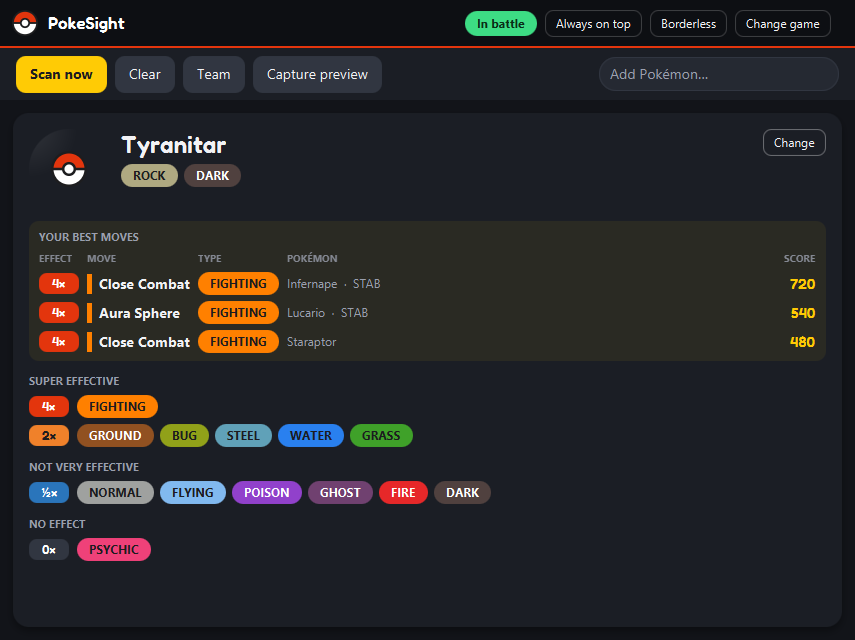
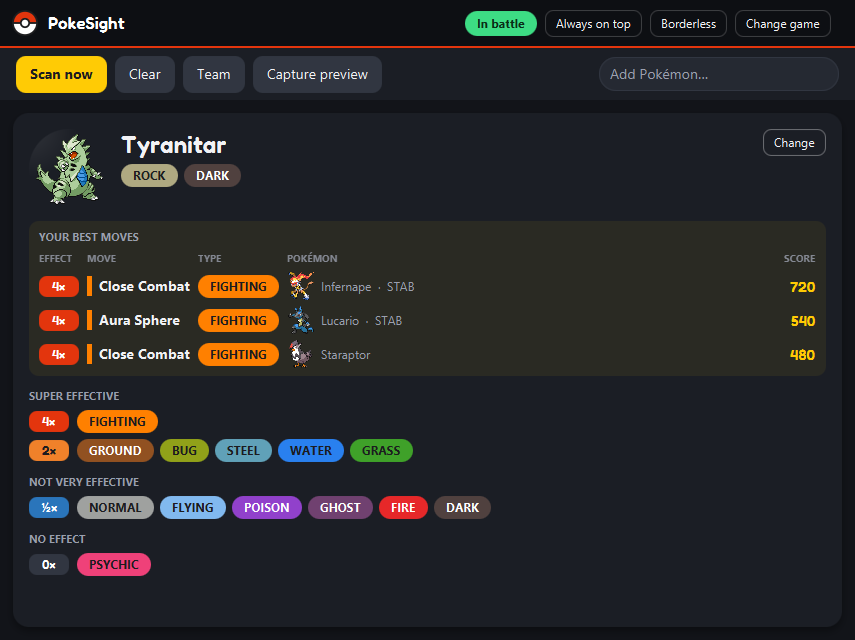
DOCS: README screenshots with sprites in one table

Changed region(s): [[0.0304, 0.4062, 0.5778, 0.9062], [0.9123, 0.4375, 0.9731, 0.5625], [0.0304, 0.2188, 0.1216, 0.3125]]

diff --git a/README.md b/README.md
@@ -9,14 +9,9 @@ PokeSight is a second-screen companion for Pokémon games. It reads the opponent
 when a battle starts and shows each opponent's weaknesses, resistances and immunities, plus which moves of your team
 hit it hardest. It only looks at the screen, so it needs no emulator plugin or memory access.
 
-![A battle against Tyranitar in Platinum: the team's best moves and all weaknesses, resistances and immunities](docs/screenshots/battle.png)
-
-| Start screen | Double battle |
-|---|---|
-| ![Start screen with game, language and the selected screen areas](docs/screenshots/start.png) | ![Double battle: Togekiss and Weavile side by side](docs/screenshots/double-battle.png) |
-
-<sub>The screenshots show a Poké Ball instead of the Pokémon sprites: the sprites are © Nintendo and not part of this
-repository; the app downloads them on first start.</sub>
+| Start screen | Single battle | Double battle |
+|---|---|---|
+| ![Start screen with game, language and the selected screen areas](docs/screenshots/start.png) | ![A battle against Tyranitar in Platinum: the team's best moves and all weaknesses, resistances and immunities](docs/screenshots/battle.png) | ![Double battle: Togekiss and Weavile side by side](docs/screenshots/double-battle.png) |
 
 - Single, double and triple battles and hordes, auto-detection plus **Scan now** if a battle was missed
 - Correct a misread Pokémon or add one by hand with a name search
@@ -255,12 +250,14 @@ PokeSight's own code is released under the [MIT License](LICENSE): free to use, 
 third-party software under its own licenses: see [THIRD-PARTY-NOTICES.md](THIRD-PARTY-NOTICES.md) and the
 [licenses](licenses) folder, both also included in the app folder.
 
-Neither the repository nor the release contains Pokémon images: the app downloads the sprites on first start, the
-build downloads the test screenshots. They are not covered by the MIT License:
+The release contains no Pokémon images: the app downloads the sprites on first start, the build downloads the test
+screenshots. The repository only contains the README screenshots in `docs/screenshots`, which show sprites. None of
+these are covered by the MIT License:
 
 | What | Source | License / owner |
 |---|---|---|
 | Sprites | [PokeAPI/sprites](https://github.com/PokeAPI/sprites), pinned commit (URLs in `games/*.yaml`) | © Nintendo / Game Freak / The Pokémon Company |
+| Sprites in the README screenshots | `docs/screenshots`, sprites from [PokeAPI/sprites](https://github.com/PokeAPI/sprites) | © Nintendo / Game Freak / The Pokémon Company |
 | Test screenshots | Bulbagarden Archives, Wikipedia, PokéWiki (URLs in `build.gradle.kts`) | © Nintendo / Game Freak / The Pokémon Company |
 | Paldean Tauros / Wooper German names | [PokéWiki](https://www.pokewiki.de) (missing in PokeAPI) | names © Nintendo / Game Freak / The Pokémon Company |
 | Pokémon data (names, types, moves) | [PokeAPI](https://pokeapi.co), cross-checked with [Pokémon Showdown](https://github.com/smogon/pokemon-showdown) | game data © Nintendo / Game Freak / The Pokémon Company |
